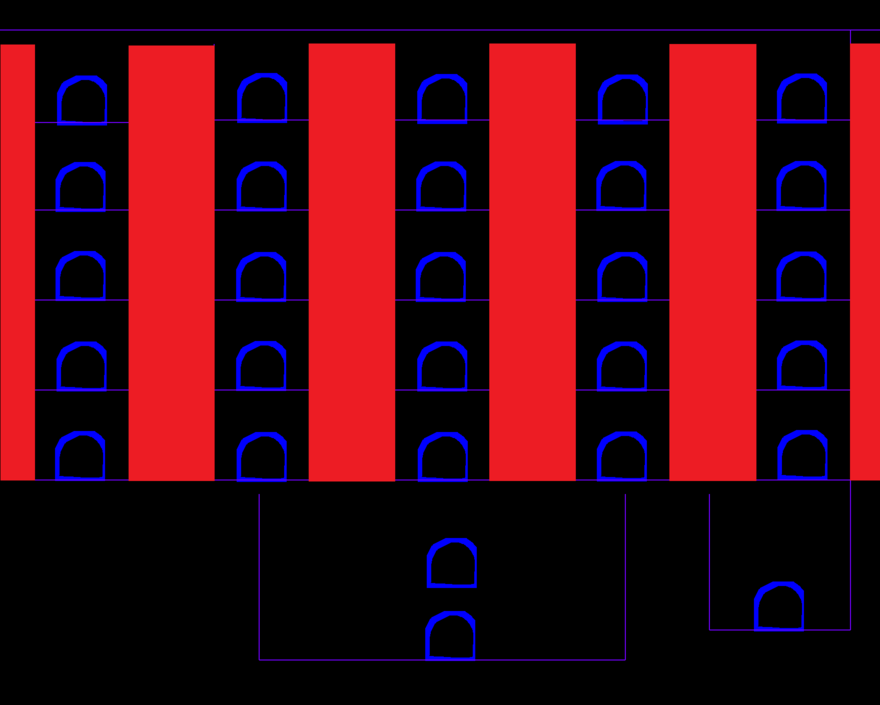
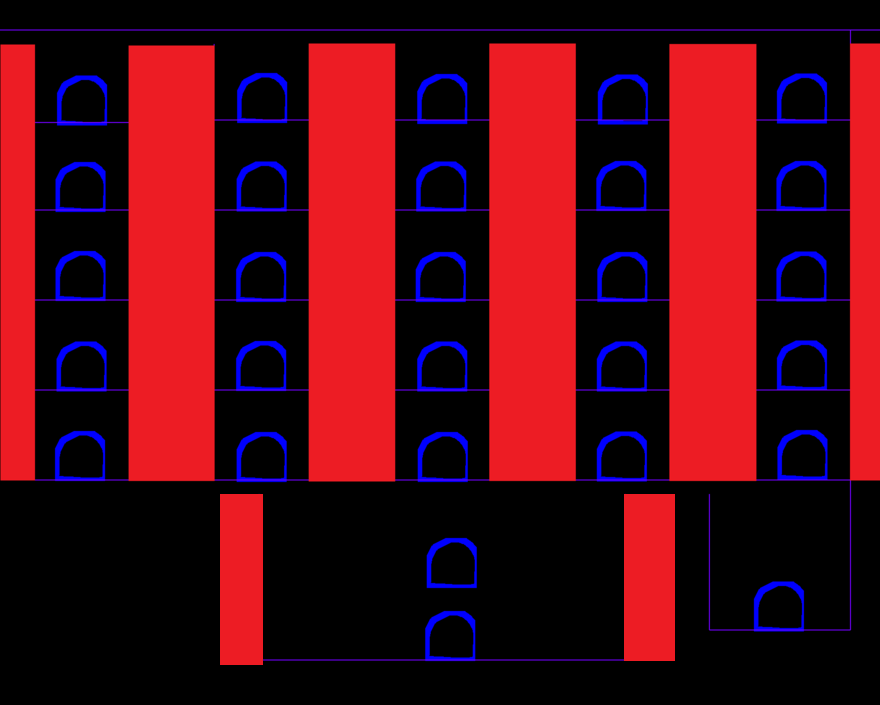
몬스터 움직임 추가

Changed region(s): [[0.2455, 0.6865, 0.3068, 0.9674], [0.7057, 0.6865, 0.767, 0.9362]]

diff --git a/src/Maze/Monster.java b/src/Maze/Monster.java
@@ -1,0 +1,117 @@
+package Maze;
+
+import java.awt.Image;
+
+import javax.swing.ImageIcon;
+import javax.swing.JLabel;
+
+public class Monster extends JLabel implements Movable {
+	private int x;
+	private int y;
+	private boolean isLeft;
+	private boolean isRight;
+	private int LWidth;
+	private int LHeight;
+	private int RWidth;
+	private int RHeight;
+
+	private ImageIcon monsterR, monsterL;
+
+	public Monster() {
+		initData();
+		setInitLayout();
+		left();
+	}
+
+	public void initData() {
+
+		ImageIcon iconL = new ImageIcon("images/monsterL.png");
+		ImageIcon iconR = new ImageIcon("images/monsterR.png");
+		Image imageL = iconL.getImage();
+		Image imageR = iconR.getImage();
+		Image resizeL = imageL.getScaledInstance(iconL.getIconWidth() / 5, iconL.getIconHeight() / 7,
+				Image.SCALE_SMOOTH);
+		Image resizeR = imageR.getScaledInstance(iconR.getIconWidth() / 5, iconR.getIconHeight() / 7,
+				Image.SCALE_SMOOTH);
+		ImageIcon resizeIconL = new ImageIcon(resizeL);
+		ImageIcon resizeIconR = new ImageIcon(resizeR);
+		this.monsterL = resizeIconL;
+		this.monsterR = resizeIconR;
+		this.isLeft = false;
+		this.isRight = false;
+
+	}
+
+	public void setInitLayout() {
+		x = 550;
+		y = 550;
+		setSize(120, 120);
+
+		setLocation(500, 550);
+		setIcon(monsterL);
+
+	}
+
+	@Override
+	public void left() {
+		isLeft = true;
+		new Thread(() -> {
+			while (isLeft) {
+				x = x - 3;
+				setLocation(x, y);
+				try {
+					Thread.sleep(10);
+				} catch (InterruptedException e) {
+					// TODO Auto-generated catch block
+					e.printStackTrace();
+				}
+
+			}
+		}).start();
+
+	}
+
+	@Override
+	public void right() {
+		isRight = true;
+		new Thread(() -> {
+			while (isRight) {
+				x = x + 3;
+				setLocation(x, y);
+				try {
+					Thread.sleep(10);
+				} catch (InterruptedException e) {
+					// TODO Auto-generated catch block
+					e.printStackTrace();
+				}
+			}
+		}).start();
+
+	}
+
+	public boolean isLeft() {
+		return isLeft;
+	}
+
+	public void setLeft(boolean isLeft) {
+		this.isLeft = isLeft;
+	}
+	
+	public void setRight(boolean isRight) {
+		this.isRight = isRight;
+	}
+
+	public ImageIcon getMonsterR() {
+		return monsterR;
+	}
+
+	public ImageIcon getMonsterL() {
+		return monsterL;
+	}
+}
+
+//		}
+
+//	
+//	
+//	}

diff --git a/src/Maze/WholeFrame.java b/src/Maze/WholeFrame.java
@@ -23,6 +23,7 @@ public class WholeFrame extends JFrame {
 	private int[][] records = new int[5][5];
 	private Player player;
 	private Arrow arrow;
+	private Monster monster;
 
 	private KeyService keyService;
 
@@ -40,15 +41,18 @@ public class WholeFrame extends JFrame {
 		addEventListener();
 		mangagerThread();
 		new Thread(new BackgroundPlayerService(player)).start();
+		new Thread(new BackgroundMonsterService(monster)).start();
 	}
 
 	private void initData() {
 		this.playerLocationService = new PlayerLocationService();
 		setSizeImageIcon(); // 복잡해서 함수로 따로빼냄
-		this.arrow = new Arrow();
+;		this.arrow = new Arrow();
 		this.backgroundMap = new JLabel(changeScaleIcon);
 		this.player = new Player(this.playerLocationService);
 		this.backgroundMap.add(player);
+		this.monster = new Monster();
+		this.backgroundMap.add(monster);
 		this.keyService = new KeyService();
 		this.redkey = new RedKey();
 		this.bluekey = new BlueKey();
@@ -99,10 +103,10 @@ public class WholeFrame extends JFrame {
 					repaint();
 					break;
 				case KeyEvent.VK_UP:
-					if(playerX == 4 && playerY == 4 && records[playerY][playerX] == 3) {
+					if (playerX == 4 && playerY == 4 && records[playerY][playerX] == 3) {
 						player.setEnd();
 						playerLocationService.setGameClear(true);
-					}else {						
+					} else {
 						player.space(records[playerY][playerX] + 1);
 					}
 					break;
@@ -121,6 +125,7 @@ public class WholeFrame extends JFrame {
 					break;
 				}
 			}
+
 			public void reset() {
 				initData();
 				setInitLayout();
@@ -250,12 +255,12 @@ public class WholeFrame extends JFrame {
 	public void mangagerThread() {
 		new Thread(() -> {
 			while (playerLocationService.isGameClear()) {
-					try {
-						Thread.sleep(100);
-					} catch (InterruptedException e) {
-						// TODO Auto-generated catch block
-						e.printStackTrace();
-					}
+				try {
+					Thread.sleep(100);
+				} catch (InterruptedException e) {
+					// TODO Auto-generated catch block
+					e.printStackTrace();
+				}
 			}
 			System.out.println("겜 클리어~!!");
 		}).start();

diff --git a/src/Maze/BackgroundMonsterService.java b/src/Maze/BackgroundMonsterService.java
@@ -1,0 +1,52 @@
+package Maze;
+
+import java.awt.Color;
+import java.awt.image.BufferedImage;
+import java.io.File;
+import java.io.IOException;
+
+import javax.imageio.ImageIO;
+
+public class BackgroundMonsterService implements Runnable {
+
+	private BufferedImage image;
+	private Monster monster;
+
+	public BackgroundMonsterService(Monster monster) {
+		this.monster = monster;
+		try {
+			this.image = ImageIO.read(new File("images/backgroundService2.png"));
+		} catch (IOException e) {
+			e.printStackTrace();
+		}
+	}
+
+	@Override
+	public void run() {
+		while (true) {
+			Color rightColor = new Color(image.getRGB(monster.getX() + 80, monster.getY()));
+			Color leftColor = new Color(image.getRGB(monster.getX() + 60, monster.getY()));
+			
+			if (leftColor.getRed() != 0 && rightColor.getRed() != 0) {
+				if (monster.isLeft()) {
+					monster.setIcon(monster.getMonsterR());
+					monster.setLeft(false);
+					monster.right();
+					
+				} else {
+					monster.setIcon(monster.getMonsterL());
+					monster.setRight(false);
+					monster.left();
+				}
+
+			}
+
+			try {
+				Thread.sleep(15);
+			} catch (InterruptedException e) {
+				e.printStackTrace();
+			}
+		}
+
+	}
+}

diff --git a/src/Maze/Arrow.java b/src/Maze/Arrow.java
@@ -19,7 +19,7 @@ public class Arrow extends JLabel {
 
 	private void initData() {
 		for (int i = 0; i < imageName.length; i++) {
-//			System.out.println("images/arrow+"+ imageName[i] +".png");
+
 			ImageIcon arrowOriginIcon = new ImageIcon(imageName[i]);
 
 			Image arrowImage = arrowOriginIcon.getImage();

diff --git a/src/Maze/PlayerLocationService.java b/src/Maze/PlayerLocationService.java
@@ -124,7 +124,7 @@ public class PlayerLocationService implements Movable {
 	public int getPlayerY() {
 		return playerY;
 	}
-	
+
 	public boolean isGameClear() {
 		return this.gameClear;
 	}
